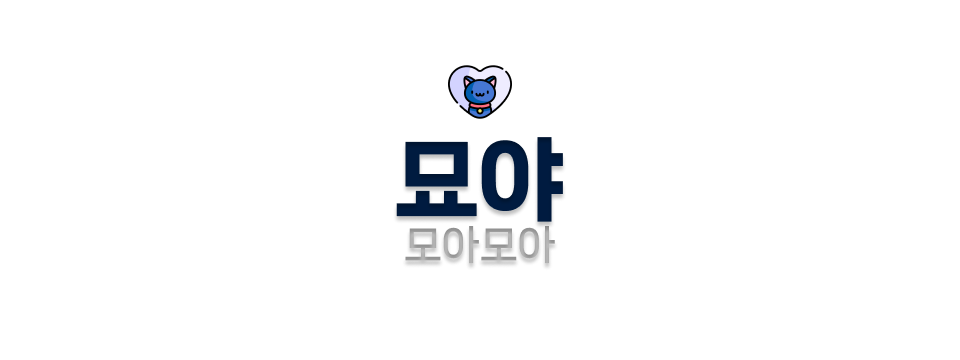
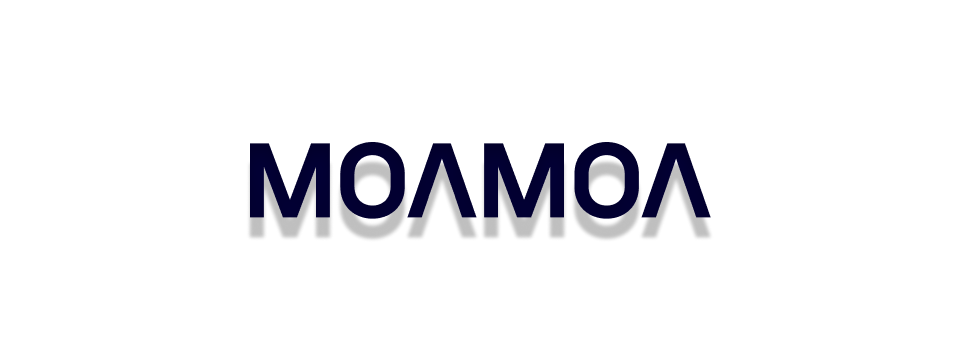
docs: 로고 및 소개 수정

Changed region(s): [[0.25, 0.3667, 0.75, 0.7333], [0.4688, 0.1833, 0.5312, 0.3361]]

diff --git a/README.md b/README.md
@@ -2,7 +2,7 @@
 
 🐈⬛ **소개**
 
-묘야는 모아모아의 약자로 유용한 정보들을 모아 한눈에 볼 수 있는 컨텐츠를 작성하여 공유하는데 주 목적이 있습니다.
+MOAMOA는 유용한 정보들을 모아 한눈에 볼 수 있는 컨텐츠를 작성하여 공유하는데 주 목적이 있습니다.
 
 🚀 **기여**
 
